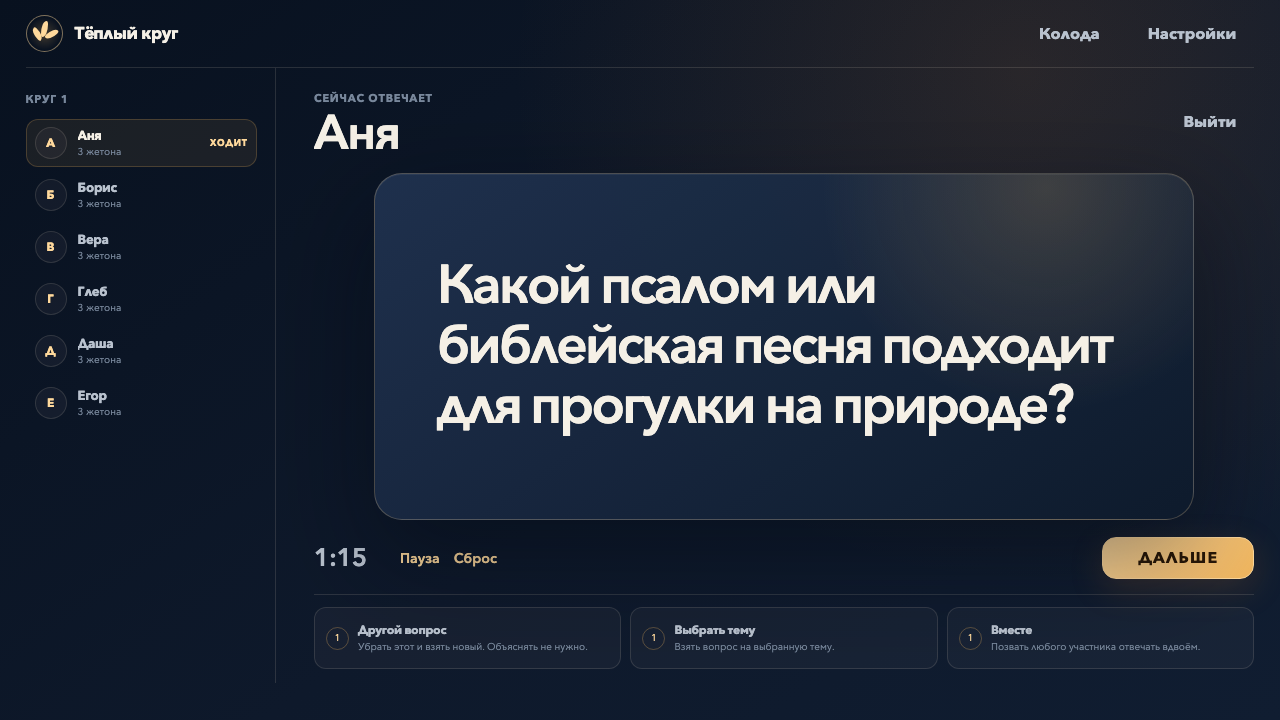
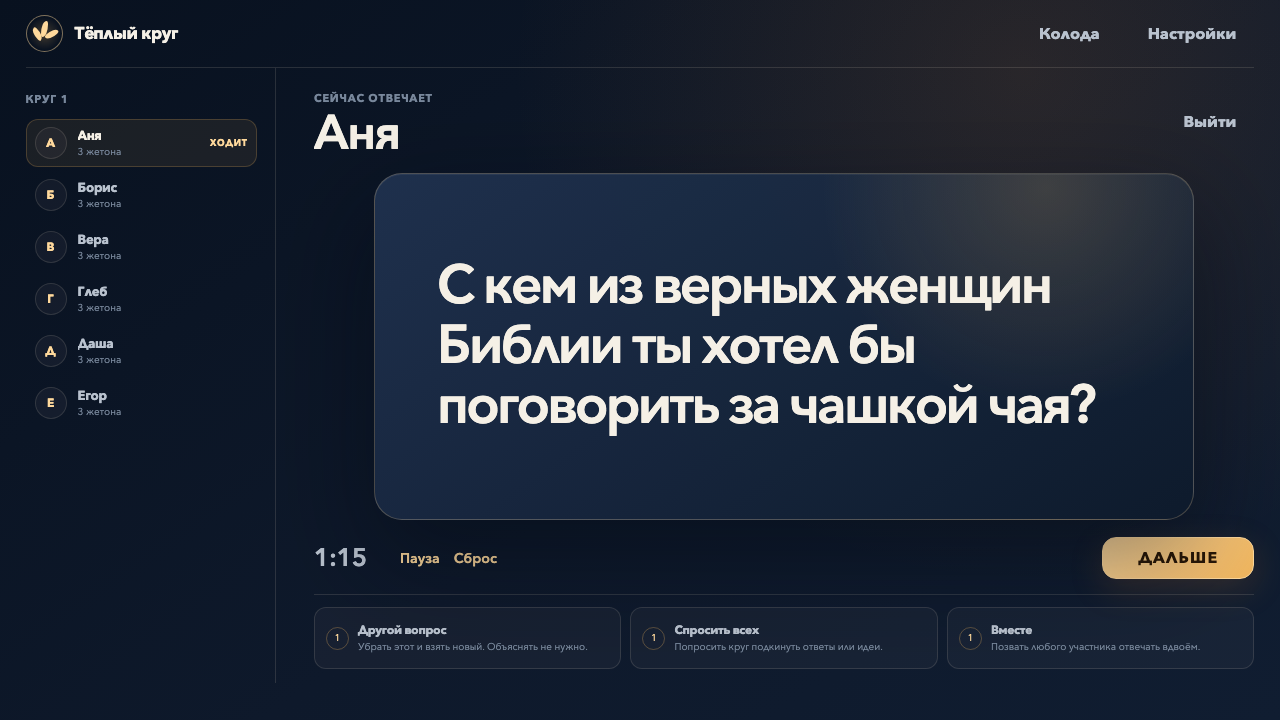
Allow smaller game circles

Changed region(s): [[0.3438, 0.3667, 0.875, 0.6111], [0.5312, 0.8556, 0.6875, 0.9167]]

diff --git a/src/main.ts b/src/main.ts
@@ -29,9 +29,9 @@ const liveRegion: HTMLDivElement = liveRegionElement;
 let data = loadStoredData();
 let screen: Screen = "welcome";
 let returnScreen: Screen = "welcome";
-let draftNames = data.preferences.savedNames.length >= 6
+let draftNames = data.preferences.savedNames.length >= 2
   ? [...data.preferences.savedNames]
-  : ["", "", "", "", "", ""];
+  : ["", ""];
 let editingCustomId: string | null = null;
 let editorSearch = "";
 let cardRevealed = false;
@@ -197,7 +197,7 @@ function bindGlobalActions(): void {
 }
 
 function renderWelcome(): void {
-  const canContinue = data.session !== null && data.session.players.length >= 6;
+  const canContinue = data.session !== null && data.session.players.length >= 2;
   const seenCount = data.preferences.seenCardIds.length;
   renderShell(`
     <section class="welcome" aria-labelledby="welcome-title">
@@ -210,7 +210,7 @@ function renderWelcome(): void {
         </div>
         <div class="welcome-facts" aria-label="Как устроена игра">
           <div><strong>360</strong><span>вопросов и заданий</span></div>
-          <div><strong>6-12</strong><span>человек</span></div>
+          <div><strong>2-12</strong><span>человек</span></div>
           <div><strong>0</strong><span>очков</span></div>
         </div>
       </div>
@@ -220,7 +220,7 @@ function renderWelcome(): void {
         <div class="sample-card">
           <p>С кем из библейских персонажей ты бы охотно отправился в путешествие?</p>
         </div>
-        <div class="scene-chip chip-left"><strong>6-12</strong><span>человек</span></div>
+        <div class="scene-chip chip-left"><strong>2-12</strong><span>человек</span></div>
         <div class="scene-chip chip-right"><strong>${seenCount}</strong><span>уже сыграно</span></div>
       </div>
     </section>
@@ -228,9 +228,9 @@ function renderWelcome(): void {
 
   root.querySelector<HTMLElement>("[data-action='new-game']")?.addEventListener("click", () => {
     data.session = null;
-    draftNames = data.preferences.savedNames.length >= 6
+    draftNames = data.preferences.savedNames.length >= 2
       ? [...data.preferences.savedNames]
-      : ["", "", "", "", "", ""];
+      : ["", ""];
     screen = "setup";
     render();
   });
@@ -253,8 +253,8 @@ function validNames(): string[] {
 }
 
 function setupValidationMessage(names: string[]): string {
-  if (names.length < 6) {
-    return `Добавьте ещё ${6 - names.length}.`;
+  if (names.length < 2) {
+    return "Добавьте хотя бы ещё одного человека.";
   }
   if (names.length > 12) {
     return "В одном круге может быть не больше 12 человек.";

diff --git a/tests/e2e/game.spec.ts b/tests/e2e/game.spec.ts
@@ -5,7 +5,7 @@ async function startGame(page: import("@playwright/test").Page, count = 6): Prom
   await page.getByRole("button", { name: "Собрать круг" }).click();
   const inputs = page.locator("[data-player-name]");
   for (let index = 0; index < count; index += 1) {
-    if (index >= 6) {
+    if (index >= 2) {
       await page.getByRole("button", { name: "Добавить имя" }).click();
     }
     await inputs.nth(index).fill(`Игрок ${index + 1}`);
@@ -13,6 +13,15 @@ async function startGame(page: import("@playwright/test").Page, count = 6): Prom
   await page.getByRole("button", { name: "Начать игру" }).click();
   await expect(page.getByRole("heading", { name: "Игрок 1" })).toBeVisible();
 }
+
+test("two people can start a small circle", async ({ page }) => {
+  await startGame(page, 2);
+  for (let index = 0; index < 2; index += 1) {
+    await page.getByRole("button", { name: "Открыть вопрос" }).click();
+    await page.getByRole("button", { name: "ДАЛЬШЕ", exact: true }).click();
+  }
+  await expect(page.getByRole("heading", { name: "Все ответили" })).toBeVisible();
+});
 
 test("host starts a six-player circle and advances in order", async ({ page }) => {
   await startGame(page);

diff --git a/tests/e2e/visual.spec.ts b/tests/e2e/visual.spec.ts
@@ -15,6 +15,9 @@ test("captures a revealed game card", async ({ page }, testInfo) => {
   await page.getByRole("button", { name: "Собрать круг" }).click();
   const names = ["Аня", "Борис", "Вера", "Глеб", "Даша", "Егор"];
   for (let index = 0; index < names.length; index += 1) {
+    if (index >= 2) {
+      await page.getByRole("button", { name: "Добавить имя" }).click();
+    }
     const name = names[index];
     if (name !== undefined) {
       await page.locator("[data-player-name]").nth(index).fill(name);

diff --git a/README.md b/README.md
@@ -23,7 +23,7 @@
 
 ## Как проходит вечер
 
-1. Ведущий добавляет от 6 до 12 имён в порядке ходов.
+1. Ведущий добавляет от 2 до 12 имён в порядке ходов.
 2. Все видят один экран через демонстрацию в Zoom.
 3. Игрок открывает вопрос, отвечает или использует разовую способность.
 4. После полного круга группа решает: продолжить или закончить вечер.